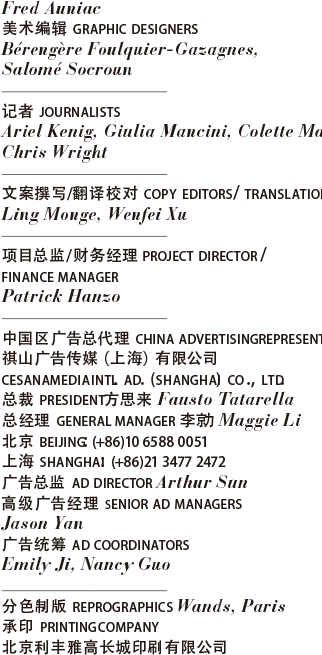
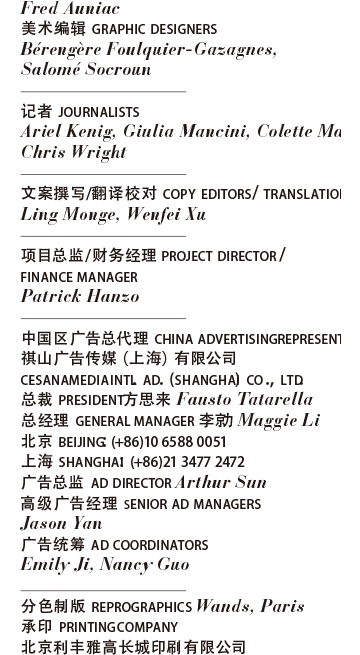
skp

diff --git a/src/css/base.css b/src/css/base.css
@@ -109,7 +109,7 @@ header{
 		position: absolute;
 		left:0.582278rem;
 		right:0.582278rem;
-		top:2.35443rem;
+		top:2.278481rem;
 		-webkit-transform: translateY(200%);
 	}
 	& .bg .txt{
@@ -145,16 +145,16 @@ header{
 	}
 	& .box{
 		position: absolute;
-		top:2.126582rem;
+		top:2.025316rem;
 		left:4.126582rem;
 		overflow: hidden;
 		-webkit-transform: translateY(200%);
-		width:5.291139rem;
+		width:5.063291rem;
 	}
 	& .box .txt{
 		position: absolute;
 		top:2.35443rem;
-		width:4.506329rem;
+		width:4.206329rem;
 		left:0.379747rem;
 		-webkit-transform: translateY(200%);
 	}

diff --git a/src/templates/index.html b/src/templates/index.html
@@ -6,7 +6,7 @@
 <!-- 文档头部 -->
 <meta charset="utf-8">
 <!-- 字符集定义，UTF-8是国际通用的字符集编码格式 -->
-<title>北京SKP TRENDS秋冬时装精选</title>
+<title>2018春夏时装精选</title>
 <!-- 网页头部标题 -->
 <meta name="keywords" content=""/>
 <!-- 网站搜索关键词 -->
